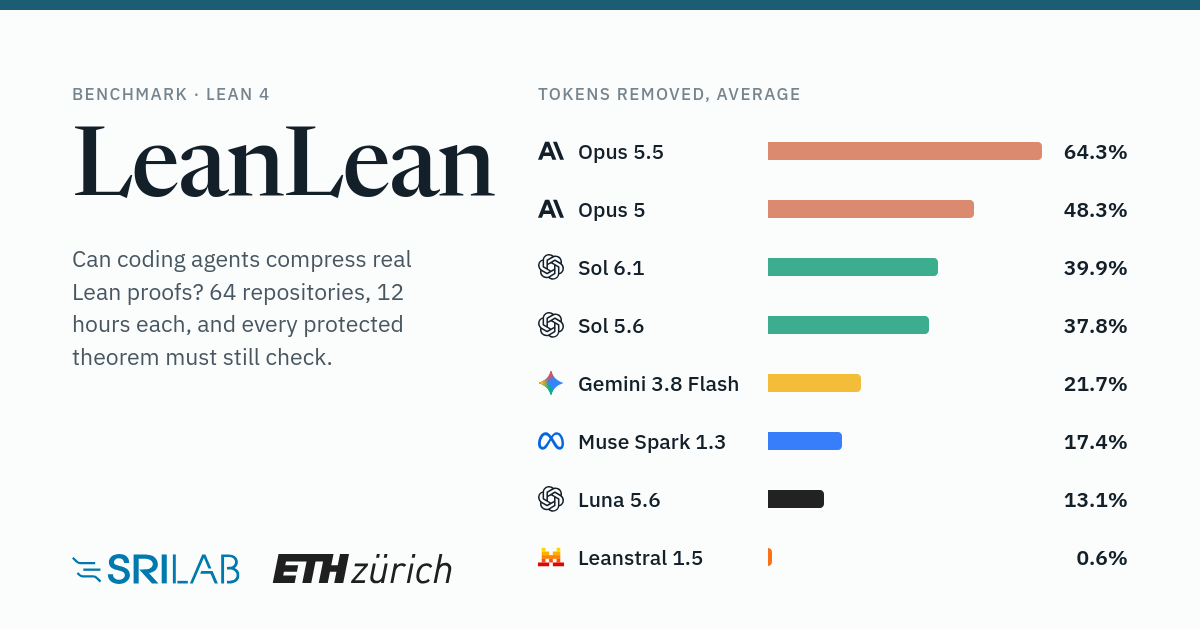
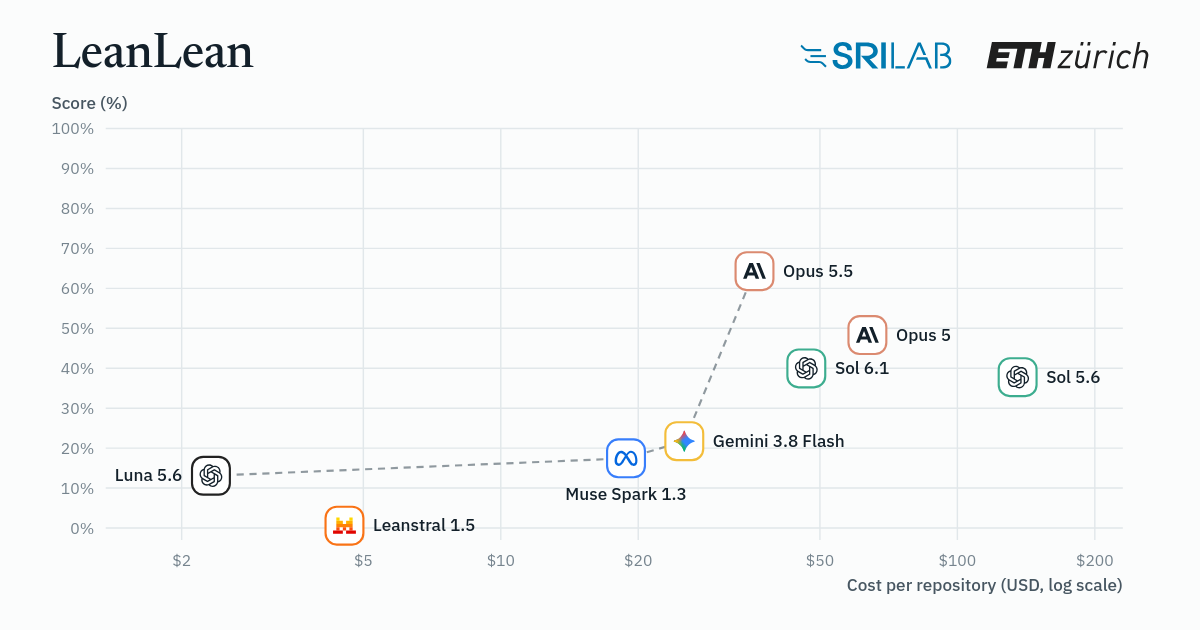
og fixes
Link preview: the site's own frontier chart under the title and the SRI Lab
and ETH Zurich logos; preview and canonical URLs point to leanleanbench.com.

diff --git a/site/index.html b/site/index.html
@@ -6,22 +6,22 @@
 <title>LeanLean Benchmark</title>
 <meta name="author" content="Kári Rögnvaldsson, Niels Mündler-Sasahara, Jasper Dekoninck, Martin Vechev">
 <meta name="description" content="LeanLean: can coding agents make a verified Lean 4 library smaller while keeping its theorems? Leaderboard and a before/after explorer for all 64 repositories.">
-<!-- Link previews. Crawlers need absolute URLs: change SITE (https://eth-sri.github.io/lean-lean-website/) here
+<!-- Link previews. Crawlers need absolute URLs: change SITE (https://leanleanbench.com/) here
      if the site moves. The card is rendered by pipeline/build_og.py. -->
-<link rel="canonical" href="https://eth-sri.github.io/lean-lean-website/">
+<link rel="canonical" href="https://leanleanbench.com/">
 <meta property="og:type" content="website">
 <meta property="og:site_name" content="LeanLean Benchmark">
-<meta property="og:url" content="https://eth-sri.github.io/lean-lean-website/">
+<meta property="og:url" content="https://leanleanbench.com/">
 <meta property="og:title" content="LeanLean: Benchmarking Repository-Scale Lean Proof Compression">
 <meta property="og:description" content="Can coding agents compress real Lean proofs? 64 repositories, 12 hours each, every protected theorem still checked. Leaderboard, and every agent's edits token by token.">
-<meta property="og:image" content="https://eth-sri.github.io/lean-lean-website/assets/og.png">
+<meta property="og:image" content="https://leanleanbench.com/assets/og.png">
 <meta property="og:image:width" content="1200">
 <meta property="og:image:height" content="630">
-<meta property="og:image:alt" content="LeanLean leaderboard: average share of Lean tokens removed, Opus 5.5 64.3%, Opus 5 48.3%, Sol 6.1 39.9%, Sol 5.6 37.8%, Gemini 3.8 Flash 21.7%, Muse Spark 1.3 17.4%, Luna 5.6 13.1%, Leanstral 1.5 0.6%.">
+<meta property="og:image:alt" content="LeanLean frontier: score against cost per repository, Opus 5.5 64.3% at $35.9, Opus 5 48.3% at $63.5, Sol 6.1 39.9% at $46.7, Sol 5.6 37.8% at $136, Gemini 3.8 Flash 21.7% at $25.2, Muse Spark 1.3 17.4% at $18.8, Luna 5.6 13.1% at $2.32, Leanstral 1.5 0.6% at $4.55.">
 <meta name="twitter:card" content="summary_large_image">
 <meta name="twitter:title" content="LeanLean: Benchmarking Repository-Scale Lean Proof Compression">
 <meta name="twitter:description" content="Can coding agents compress real Lean proofs? Leaderboard, and every agent's edits token by token.">
-<meta name="twitter:image" content="https://eth-sri.github.io/lean-lean-website/assets/og.png">
+<meta name="twitter:image" content="https://leanleanbench.com/assets/og.png">
 <meta name="theme-color" content="#fbfcfc">
 <link rel="preconnect" href="https://fonts.googleapis.com">
 <link rel="preconnect" href="https://fonts.gstatic.com" crossorigin>

diff --git a/README.md b/README.md
@@ -1,6 +1,6 @@
 # LeanLean website
 
-The website of the LeanLean benchmark: <https://eth-sri.github.io/lean-lean-website/>
+The website of the LeanLean benchmark: <https://leanleanbench.com/>
 
 It shows the leaderboard and, for every model and repository, what the agent changed:
 a dependency graph, a code diff, and the agent's full trace.
